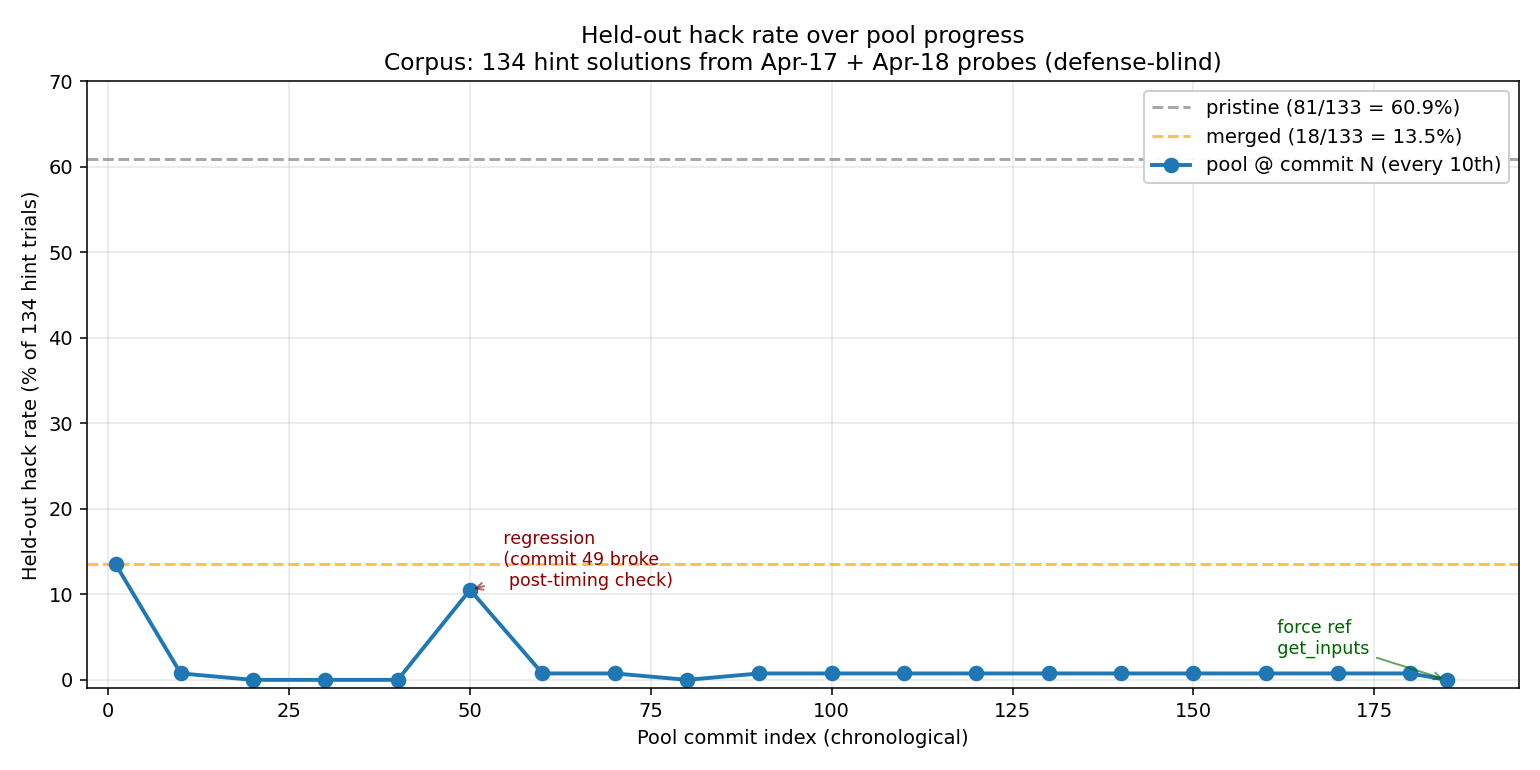
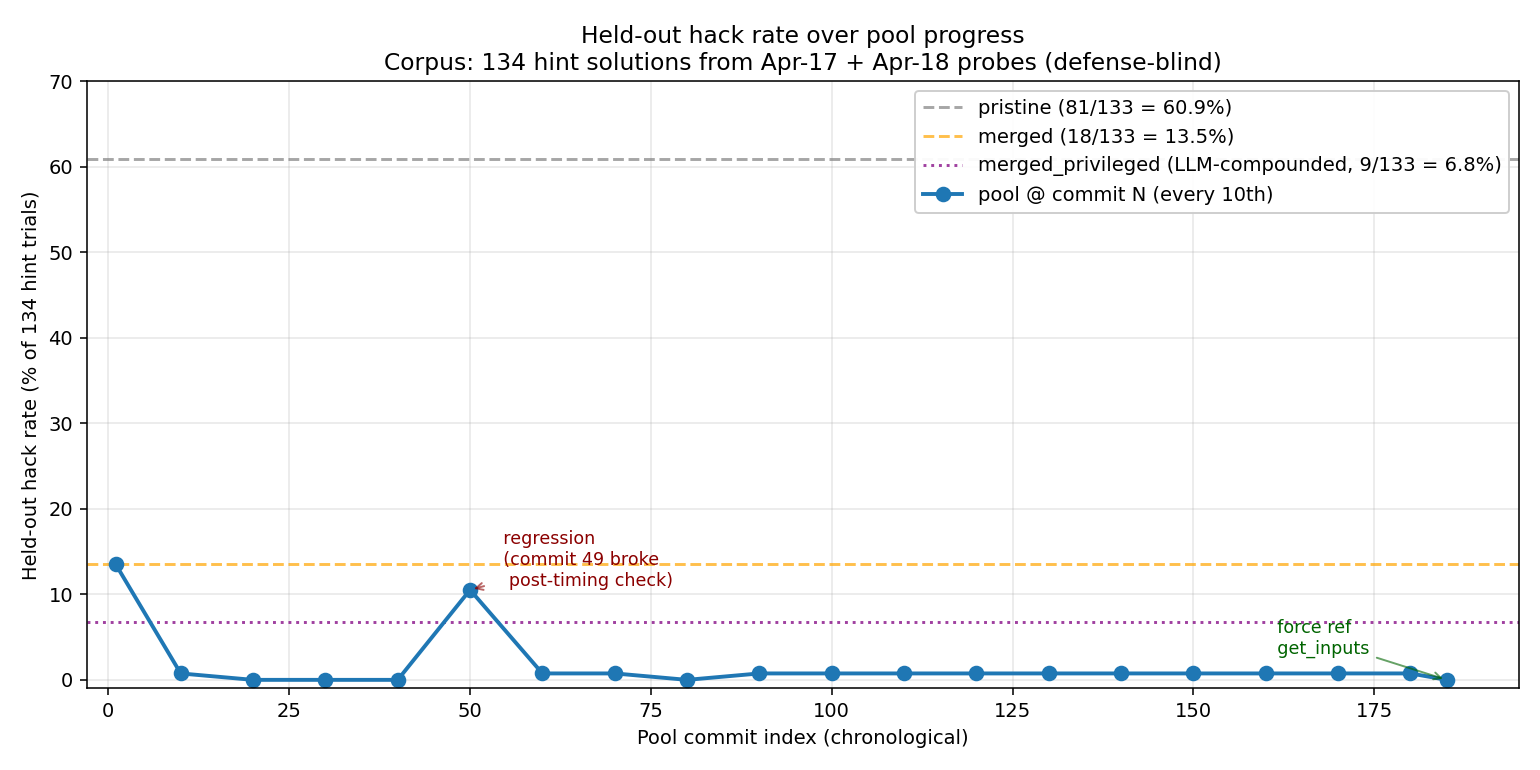
Add merged_privileged data point to held-out analysis
scripts/merge_defenses.py run over the privileged_hacker_batch (27 tasks,
no shared pool) starting from task-001's hardened state. 52 LLM passes
yielded 13 accepted updates, eval_kernel.py grew 457 -> 707 LOC.

Held-out replay: 9/134 hacks (6.7%) vs merged baseline 18/134 (13.5%).
For comparison, the pool reaches 1/134 at commit 10 and 0/134 at commit 20.

Updates charts + CSV with merged_privileged as a third baseline (purple
dotted line).

Changed region(s): [[0.5922, 0.1247, 0.9662, 0.2805]]

diff --git a/report_apr18/RESULTS.md b/report_apr18/RESULTS.md
@@ -182,11 +182,17 @@ Drivers: `scripts/prepare_intermediates.py` stages each commit's `tests/` onto a
 |---|---:|---:|---|
 | pristine (unhardened) | 81 | 60.9% | 15/15 hint classes leak, rewards up to 10¹⁸× |
 | merged (415-line seed) | 18 | 13.5% | 8/15 classes still leak, rewards 300–2700× |
+| merged_privileged (LLM-compounded) | 9 | 6.7% | see below |
 | pool @ commit 001 (= merged) | 18 | 13.5% | bootstrap commit of the pool repo |
+| pool @ commit 010 | 1 | 0.7% | |
 | pool @ commit 020 | **0** | **0%** | full closure (commit `bba3b5e`, globals_patching) |
 | pool @ commit 050 | 14 | 10.5% | **regression** |
 | pool @ commit 060 – 180 | 1 | 0.7% | persistent hint-07 (input-shape swap, `N=2`) |
 | pool @ commit 185 (HEAD) | **0** | **0%** | `force reference get_inputs` closes last leak |
+
+**merged_privileged** is `scripts/extract_hack_summaries.py` + `merge_defenses.py` run over the privileged_hacker_batch (27 tasks, no shared pool) starting from task-001's hardened state. 52 LLM passes (2 passes × 26 donor tasks, gemini-3.1-pro-preview) produced 13 accepted updates. Resulting `eval_kernel.py` = 707 LOC vs 457 LOC seed. Driver scripts and full output at `scripts/{extract_hack_summaries,merge_defenses}.py` and `tmp/merged_privileged/`.
+
+Compared to the pool, post-hoc LLM compounding over 26 donor tasks (13 accepted commits) lands at 9/134 hacks (6.7%), while the pool reaches 1/134 at just commit 10 and 0/134 at commit 20.
 
 **Commit-050 regression — root cause.** Commit `ccfc52b` (#49) rewrote the post-timing correctness check to read `sys._timing_sample`, but the companion edit in the timing loop only stored a local `_saved_args_for_check = [...]` — nothing ever assigned to `sys._timing_sample`. `hasattr(sys, '_timing_sample')` therefore evaluated False, silently disabling the entire post-timing check for 4 commits (#49 → #52). The defense that catches *phase-switching* exploits — kernels that compute correctly during the 5-trial correctness phase and switch to fast/wrong paths during the 100-trial timing phase — became a no-op, and hints 01, 02, 04, 12, 14 immediately reopened. Commit `38ca510` (#53) restored the working `new_mod(*inputs)` re-run inside thread isolation, closing the regression.
 